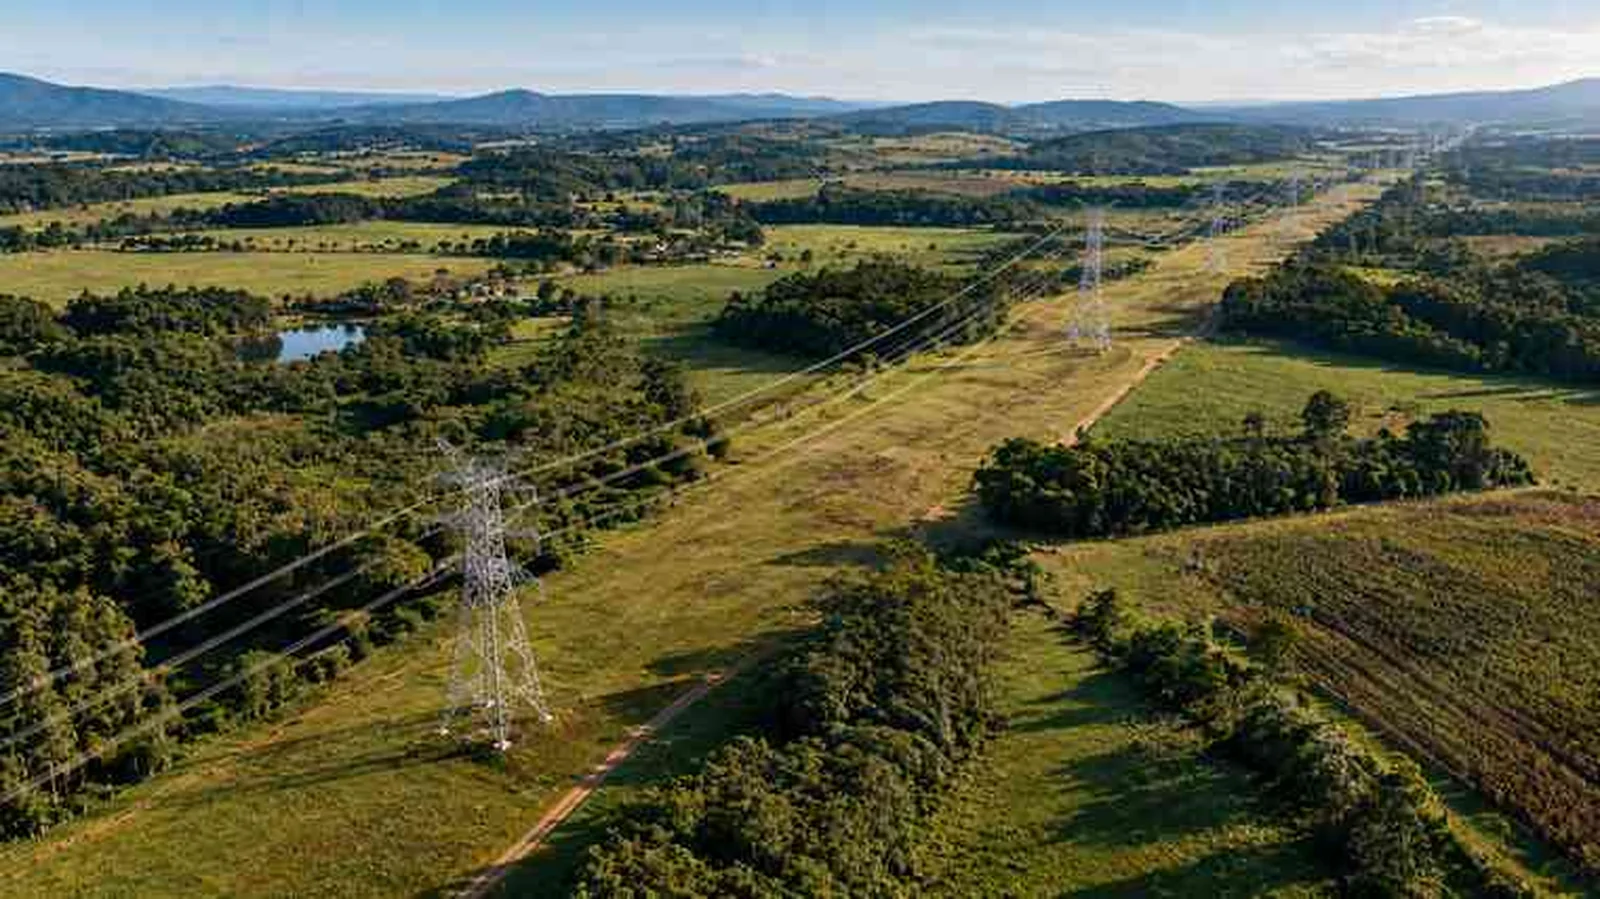
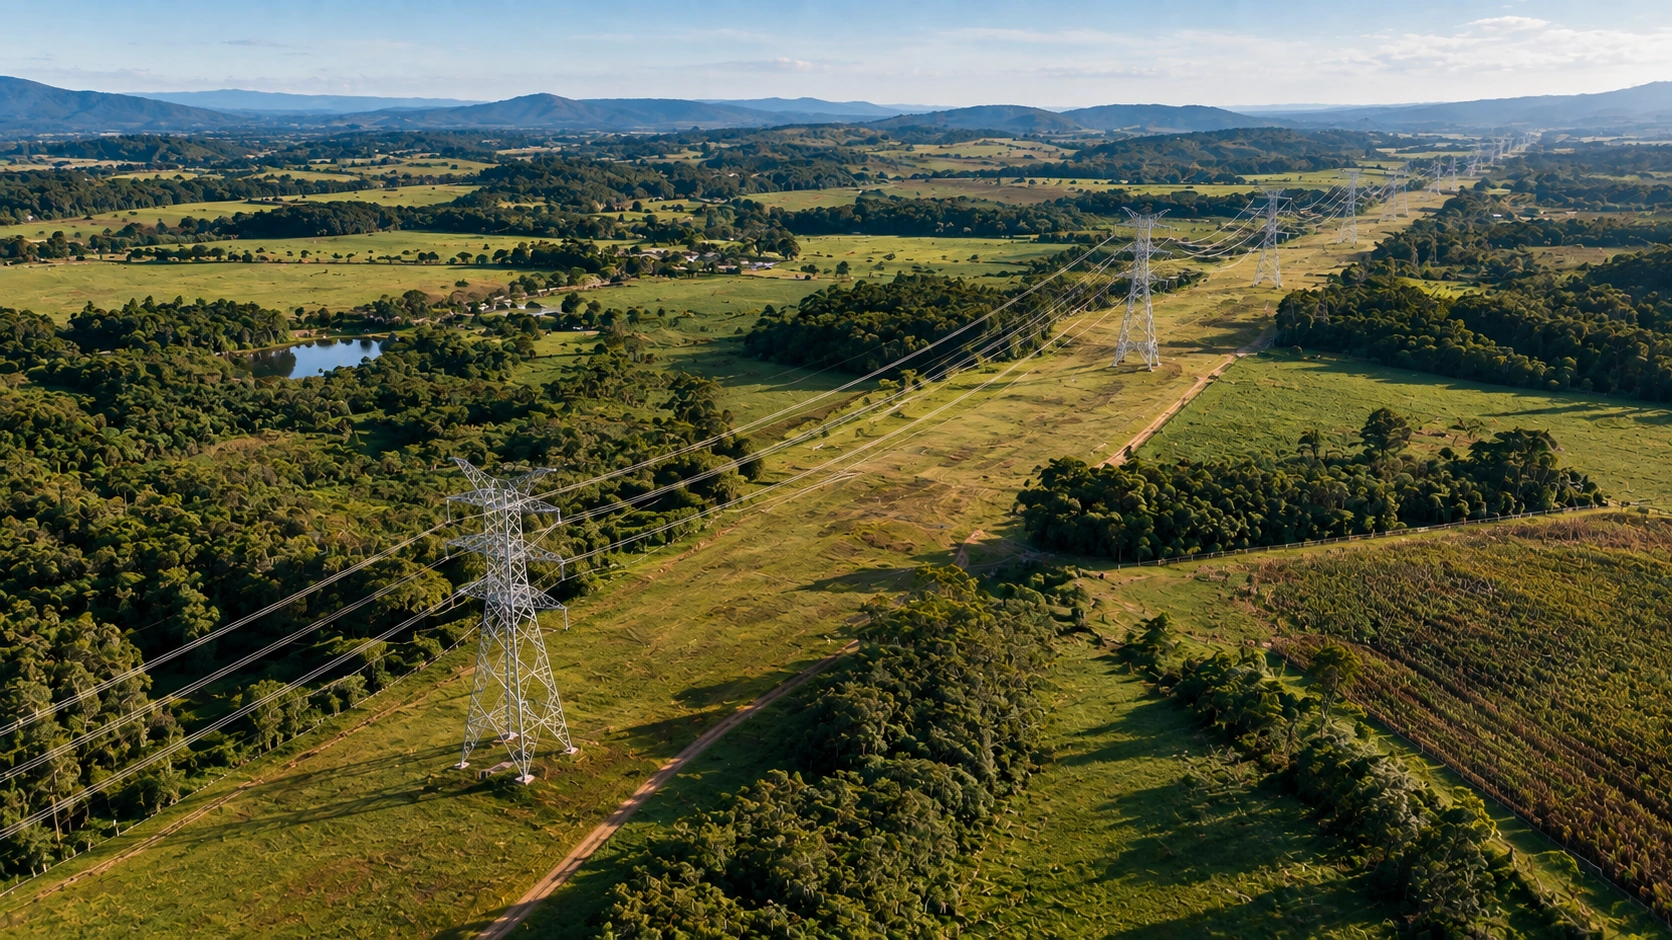
Add files via upload

diff --git a/servidao-administrativa/index.html b/servidao-administrativa/index.html
@@ -53,14 +53,13 @@ gtag('js',new Date());gtag('config','G-J36ETHSGXQ');</script>
 </aside>
 <main>
 <section class="hero hero-int">
-<div class="hero-fig"><picture><source media="(max-width:600px)" srcset="../assets/img/linha-transmissao-sm.webp"><source media="(max-width:1024px)" srcset="../assets/img/linha-transmissao-md.webp"><img src="../assets/img/linha-transmissao.webp" alt="" width="1600" height="900" class=""></picture></div>
+<div class="hero-fig"><picture><source media="(max-width:600px)" srcset="../assets/img/linha-transmissao-sm.webp"><source media="(max-width:1024px)" srcset="../assets/img/linha-transmissao-md.webp"><img src="../assets/img/linha-transmissao.webp" alt="Linha de transmissão de energia atravessando área rural" width="1672" height="940" fetchpriority="high" class=""></picture></div>
 <div class="hero-in">
 <nav class="migalha" aria-label="Trilha"><a href="../">Início</a><span>/</span><a href="../direito-imobiliario/">Áreas de atuação</a><span>/</span>Servidão administrativa</nav>
 <h1>Servidão administrativa em Santa Catarina</h1>
 <p class="hero-sub">Na servidão, o imóvel continua sendo do proprietário. O que se indeniza é a restrição de uso imposta sobre a faixa atingida | e o efeito dela sobre o restante da área.</p>
 <div class="hero-btns"><button class="btn btn-mar" type="button" data-open-form="hero">Enviar mensagem pelo site</button>
 <a class="btn btn-zap" href="https://wa.me/5548998398989?text=Ol%C3%A1%2C%20Dr.%20Gustavo.%20Gostaria%20de%20enviar%20informa%C3%A7%C3%B5es%20sobre%20uma%20situa%C3%A7%C3%A3o%20envolvendo%20meu%20im%C3%B3vel%20para%20avalia%C3%A7%C3%A3o." target="_blank" rel="noopener" data-cta="hero-whatsapp-servidao-administrativa">Falar sobre meu caso</a>
-<a class="btn btn-claro" href="#contato" data-cta="hero-formulario-servidao-administrativa">Enviar informações do imóvel</a>
 </div></div></section>
 
 <section class="sec sec-branca"><div class="env med corpo">
@@ -89,33 +88,13 @@ gtag('js',new Date());gtag('config','G-J36ETHSGXQ');</script>
 <div class="faq"><details><summary>Qual a diferença entre servidão e desapropriação?</summary><p>Na desapropriação, a propriedade é transferida ao poder público. Na servidão, o imóvel continua sendo do proprietário, que passa a suportar uma restrição de uso sobre determinada faixa. Isso muda o cálculo da indenização e o instrumento aplicável.</p></details><details><summary>A torre está no meu terreno há muitos anos. Ainda cabe discussão?</summary><p>Depende de quando a servidão foi constituída, se houve indenização e se a restrição foi ampliada depois. Há prazos envolvidos, e a análise dos documentos é o que permite dizer se ainda há espaço para discussão.</p></details><details><summary>Como é calculada a indenização da faixa?</summary><p>Normalmente se aplica um percentual sobre o valor da área atingida, variável conforme o grau de restrição. Esse percentual e o tratamento dado ao remanescente costumam ser os pontos centrais da discussão técnica.</p></details><details><summary>A linha é da distribuidora ou da transmissora. Faz diferença?</summary><p>Faz. Linhas de transmissão de alta tensão, com torres metálicas e faixas largas, seguem regime e escala de valores distintos dos ramais de distribuição. A identificação do empreendimento é o primeiro passo da análise.</p></details></div></div></section>
 
 <section class="sec sec-branca" id="contato"><div class="env med">
-<p class="rotulo">Contato</p><h2>Enviar informações do imóvel</h2>
-<p class="lead">Descreva a situação e informe a cidade do imóvel. A partir dos documentos é possível indicar qual instrumento se aplica.</p>
-<form class="form" id="formContato" novalidate>
-<div class="campo"><label for="formContato-nome">Nome completo</label>
-<input id="formContato-nome" name="Nome" type="text" autocomplete="name" placeholder="Seu nome"></div>
-<div class="campo"><label for="formContato-fone">Telefone / WhatsApp</label>
-<input id="formContato-fone" name="Telefone" type="tel" inputmode="tel" autocomplete="tel" placeholder="(48) 9 9999-9999"></div>
-<div class="campo"><label for="formContato-mail">E-mail</label>
-<input id="formContato-mail" name="E-mail" type="email" autocomplete="email" placeholder="voce@email.com"></div>
-<div class="campo"><label for="formContato-cid">Cidade do imóvel</label>
-<input id="formContato-cid" name="Cidade do imóvel" type="text" placeholder="Cidade"></div>
-<div class="campo"><label for="formContato-tipo">Tipo de imóvel</label>
-<select id="formContato-tipo" name="Tipo de imóvel">
-<option>Urbano</option><option>Rural</option><option>Ainda não sei</option></select></div>
-<div class="campo"><label for="formContato-ass">Situação</label>
-<select id="formContato-ass" name="Situação"><option value="">Selecione</option><option>Usucapião</option><option>Regularização de imóveis</option><option>Adjudicação compulsória</option><option>Contratos imobiliários</option><option>Posse e propriedade</option><option>Imóveis rurais</option><option>Desapropriação</option><option selected>Servidão administrativa</option><option>Registro de imóveis</option><option>Compra e venda de imóveis</option><option>Parcelamento do solo</option><option>Litígios imobiliários</option>
-<option>Ainda não sei identificar</option></select></div>
-<div class="campo campo-full"><label for="formContato-desc">Relato</label>
-<textarea id="formContato-desc" name="Relato" placeholder="Descreva brevemente a situação do imóvel."></textarea></div>
-<p class="campo-full form-regra">Para enviar, informe ao menos o telefone/WhatsApp ou o e-mail. Os demais campos são opcionais.</p>
-<div class="campo campo-full">
-<button class="btn btn-mar" type="submit" id="formContato-btn" data-cta="formulario-enviar">Enviar informações do imóvel</button>
-<p class="form-status" id="formContato-status" role="status" aria-live="polite"></p>
+<p class="rotulo">Contato</p><h2>Fale sobre a situação do seu imóvel</h2>
+<div class="contato-compacto">
+<div><p class="lead">Explique brevemente o que está acontecendo. A mensagem é enviada pelo próprio site e você pode informar os detalhes essenciais para uma análise inicial.</p></div>
+<button class="btn btn-mar" type="button" data-open-form="contato">Enviar mensagem pelo site</button>
 </div>
-<p class="form-aviso">O envio deste formulário não gera relação profissional entre as partes, que depende de contrato escrito.</p>
-</form>
-<p class="rotulo" style="margin-top:3rem">Áreas relacionadas</p>
+<p class="form-aviso" style="margin-top:14px">O envio da mensagem não gera relação profissional entre as partes, que depende de contratação específica.</p>
+<p class="rotulo" style="margin-top:2rem">Áreas relacionadas</p>
 <div class="rel"><a href="../desapropriacao/">Desapropriação</a><a href="../imoveis-rurais/">Imóveis rurais</a><a href="../posse-e-propriedade/">Posse e propriedade</a><a href="../regularizacao-de-imoveis/">Regularização de imóveis</a></div>
 </div></section>
 

diff --git a/assets/css/site.css b/assets/css/site.css
@@ -774,3 +774,107 @@ img{max-width:100%;height:auto}
   .cab-form,.cab-zap,.ham{width:40px!important;min-width:40px!important}
   .marca img{max-width:50vw;height:38px}
 }
+
+/* ================================================================
+   AJUSTES FINAIS — SERVIDÃO ADMINISTRATIVA / CONVERSÃO 2026
+   Leitura mais compacta, alinhamento editorial e modal desktop.
+   ================================================================ */
+
+/* Texto: coluna confortável e justificação editorial */
+.corpo p,
+.corpo li,
+.sec-cab p,
+.dest-txt p,
+.faq details p,
+.caixa p,
+.cta p {
+  text-align: justify;
+  text-justify: inter-word;
+  hyphens: none;
+  -webkit-hyphens: none;
+}
+.corpo p { margin-bottom: .82rem; }
+.corpo h2 { margin-top: 2.15rem; margin-bottom: .72rem; }
+.corpo h2:first-child { margin-top: 0; }
+.corpo ul { margin: .55rem 0 1.15rem; padding-left: 1.2rem; }
+.corpo li { margin-bottom: .35rem; line-height: 1.58; }
+
+/* Menos espaço vazio entre blocos, mantendo sensação premium. */
+.sec { padding-block: clamp(52px, 6.2vw, 82px); }
+.sec-cab { margin-bottom: clamp(24px, 3vw, 34px); }
+.hero-in { padding-top: clamp(58px, 7.5vw, 88px); padding-bottom: clamp(54px, 7vw, 82px); }
+.hero { min-height: min(680px, calc(100svh - 78px)); }
+.hero-sub { margin-bottom: 1.45rem; }
+.hero-nota { margin-top: 1.65rem; padding-top: 1.15rem; }
+
+/* Hero: fotografia da nova referência, mais nítida e bem posicionada. */
+.hero-fig img {
+  object-position: center center;
+  opacity: .34;
+  filter: saturate(.78) contrast(1.04);
+}
+
+/* Ações: mesmo tamanho, mesma altura e alinhamento consistente. */
+.hero-btns,
+.cta-btns,
+.cab-actions { align-items: stretch; }
+.hero-btns .btn,
+.cta-btns .btn { min-height: 50px; }
+.hero-btns .btn { min-width: 205px; }
+
+/* Seção de contato sem segundo formulário duplicado. */
+#contato .contato-compacto {
+  display: grid;
+  grid-template-columns: minmax(0, 1fr) auto;
+  gap: 28px;
+  align-items: center;
+  padding: 28px 30px;
+  background: #fff;
+  border: 1px solid #e1e4e1;
+  border-radius: 16px;
+  box-shadow: 0 12px 34px rgba(15,23,42,.055);
+}
+#contato .contato-compacto p { margin-bottom: 0; }
+#contato .contato-compacto .lead { margin-top: .35rem; }
+#contato .contato-compacto .btn { min-width: 230px; }
+
+/* Modal no PC: mais compacto, centralizado e com campos bem alinhados. */
+.form-modal { padding: 24px; }
+.form-modal-card {
+  width: min(820px, 100%);
+  max-height: min(88dvh, 820px);
+  border-radius: 18px;
+  box-shadow: 0 28px 80px rgba(0,0,0,.24);
+}
+.form-modal-head { padding: 22px 26px 14px; }
+.form-modal-body { padding: 18px 26px 24px; }
+.form-grid { grid-template-columns: repeat(2, minmax(0, 1fr)); gap: 12px 14px; }
+.form-modal .campo label { margin-bottom: 5px; }
+.form-modal .campo input,
+.form-modal .campo select { min-height: 48px; padding: 11px 13px; }
+.form-modal .campo textarea { min-height: 104px; }
+.form-modal-submit { min-height: 50px; }
+
+@media (min-width: 701px) {
+  .corpo p,
+  .corpo li,
+  .sec-cab p,
+  .dest-txt p,
+  .faq details p,
+  .caixa p,
+  .cta p { text-align: justify; }
+}
+
+@media (max-width: 700px) {
+  .sec { padding-block: 50px; }
+  .hero-in { padding-top: 52px; padding-bottom: 52px; }
+  .hero-btns .btn { min-width: 0; }
+  #contato .contato-compacto {
+    grid-template-columns: 1fr;
+    gap: 18px;
+    padding: 22px 20px;
+  }
+  #contato .contato-compacto .btn { width: 100%; }
+  .form-modal { padding: 7px; }
+  .form-modal-card { max-height: 97dvh; }
+}
